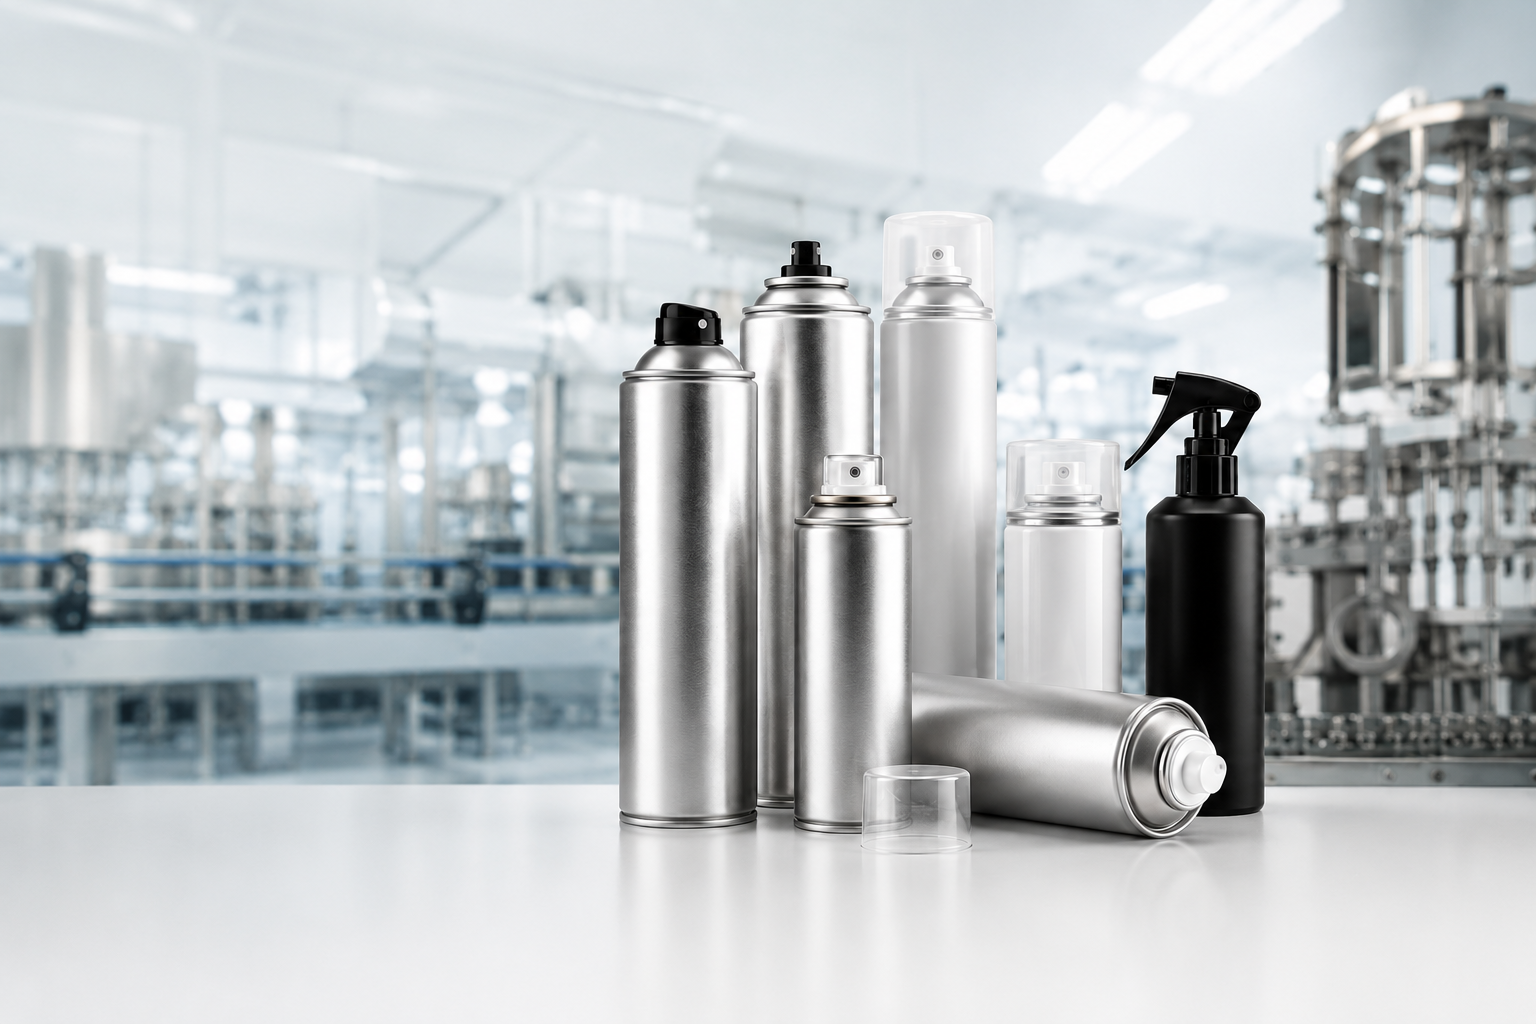
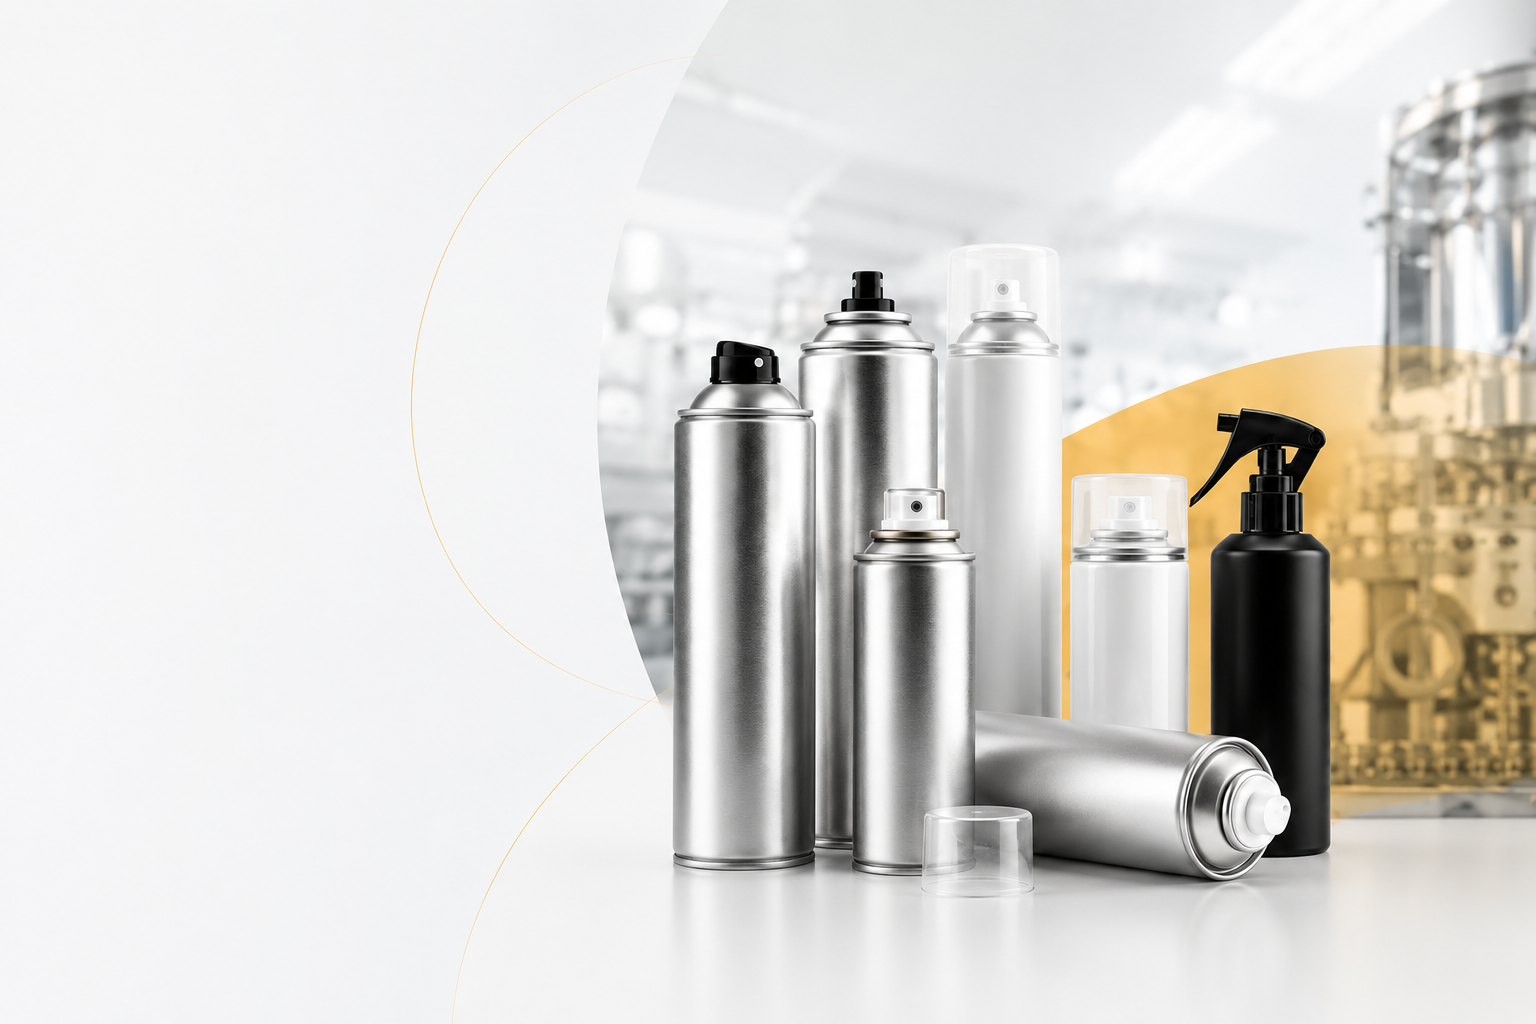
Actualizacion

diff --git a/index.html b/index.html
@@ -192,66 +192,17 @@
     color: var(--color-text-muted);
     line-height: 1.4;
   }
-  /* Columna derecha: imagen integrada sin borde rectangular */
+  /* Columna derecha: la imagen ya trae el oval, el arco dorado y el blob amber */
   .hero-image-side {
     position: relative;
-    background: #f4f6f8;
+    background-color: #ffffff;
+    background-image: url('images/hero-producto.png');
+    background-size: cover;
+    background-position: 30% center;
     overflow: hidden;
   }
-  /* Mancha dorada en esquina inferior derecha */
-  .hero-image-side::after {
-    content: '';
-    position: absolute;
-    bottom: -60px;
-    right: -40px;
-    width: 280px;
-    height: 220px;
-    background: radial-gradient(ellipse, rgba(245,158,11,0.35) 0%, transparent 70%);
-    pointer-events: none;
-    z-index: 0;
-  }
-  /* Óvalos decorativos concéntricos */
-  .hero-oval-dec {
-    position: absolute;
-    border-radius: 50%;
-    pointer-events: none;
-    z-index: 1;
-    top: 50%;
-    left: 42%;
-    transform: translate(-50%, -50%);
-  }
-  .hero-oval-1 {
-    width: 580px;
-    height: 480px;
-    border: 1px solid rgba(180, 165, 130, 0.3);
-  }
-  .hero-oval-2 {
-    width: 420px;
-    height: 350px;
-    border: 1px solid rgba(180, 165, 130, 0.2);
-    background: rgba(245, 243, 237, 0.25);
-  }
-  /* Punto dorado decorativo */
-  .hero-gold-dot {
-    position: absolute;
-    width: 10px;
-    height: 10px;
-    border-radius: 50%;
-    background: var(--color-accent);
-    z-index: 2;
-    top: 52%;
-    left: calc(42% - 292px);
-    transform: translateY(-50%);
-    box-shadow: 0 0 0 4px rgba(245,158,11,0.2);
-  }
   .hero-product-img {
-    width: 100%;
-    height: 100%;
-    object-fit: cover;
-    object-position: center center;
-    display: block;
-    position: relative;
-    z-index: 2;
+    display: none; /* la imagen se usa como background, no como tag */
   }
   /* Tarjeta flotante con esquinas redondeadas */
   .hero-floating-card {
@@ -337,9 +288,8 @@
     .hero-container { grid-template-columns: 1fr; min-height: auto; }
     .hero-content { padding: 100px 24px 52px; }
     .hero-title { font-size: 2.75rem; }
-    .hero-image-side { height: 400px; }
-    .hero-oval-1 { width: 380px; height: 320px; }
-    .hero-oval-2 { width: 280px; height: 240px; }
+    .hero-image-side { height: 420px; }
+    .hero-product-img { object-position: center center; }
     .hero-features-bar { grid-template-columns: repeat(2, 1fr); }
     .hero-feature-item { border-bottom: 1px solid rgba(255,255,255,0.07); padding: 24px 20px; }
     .hero-feature-item:nth-child(even) { border-right: none; }
@@ -1175,11 +1125,8 @@
 
     </div>
 
-    <!-- COLUMNA DERECHA: imagen con óvalos decorativos -->
+    <!-- COLUMNA DERECHA: imagen ya preparada con óvalos y blob dorado incluidos -->
     <div class="hero-image-side">
-      <div class="hero-oval-dec hero-oval-1"></div>
-      <div class="hero-oval-dec hero-oval-2"></div>
-      <div class="hero-gold-dot"></div>
       <img src="images/hero-producto.png" alt="Producción de aerosoles Maquila Spray" class="hero-product-img">
       <div class="hero-floating-card">
         <div class="floating-icon">